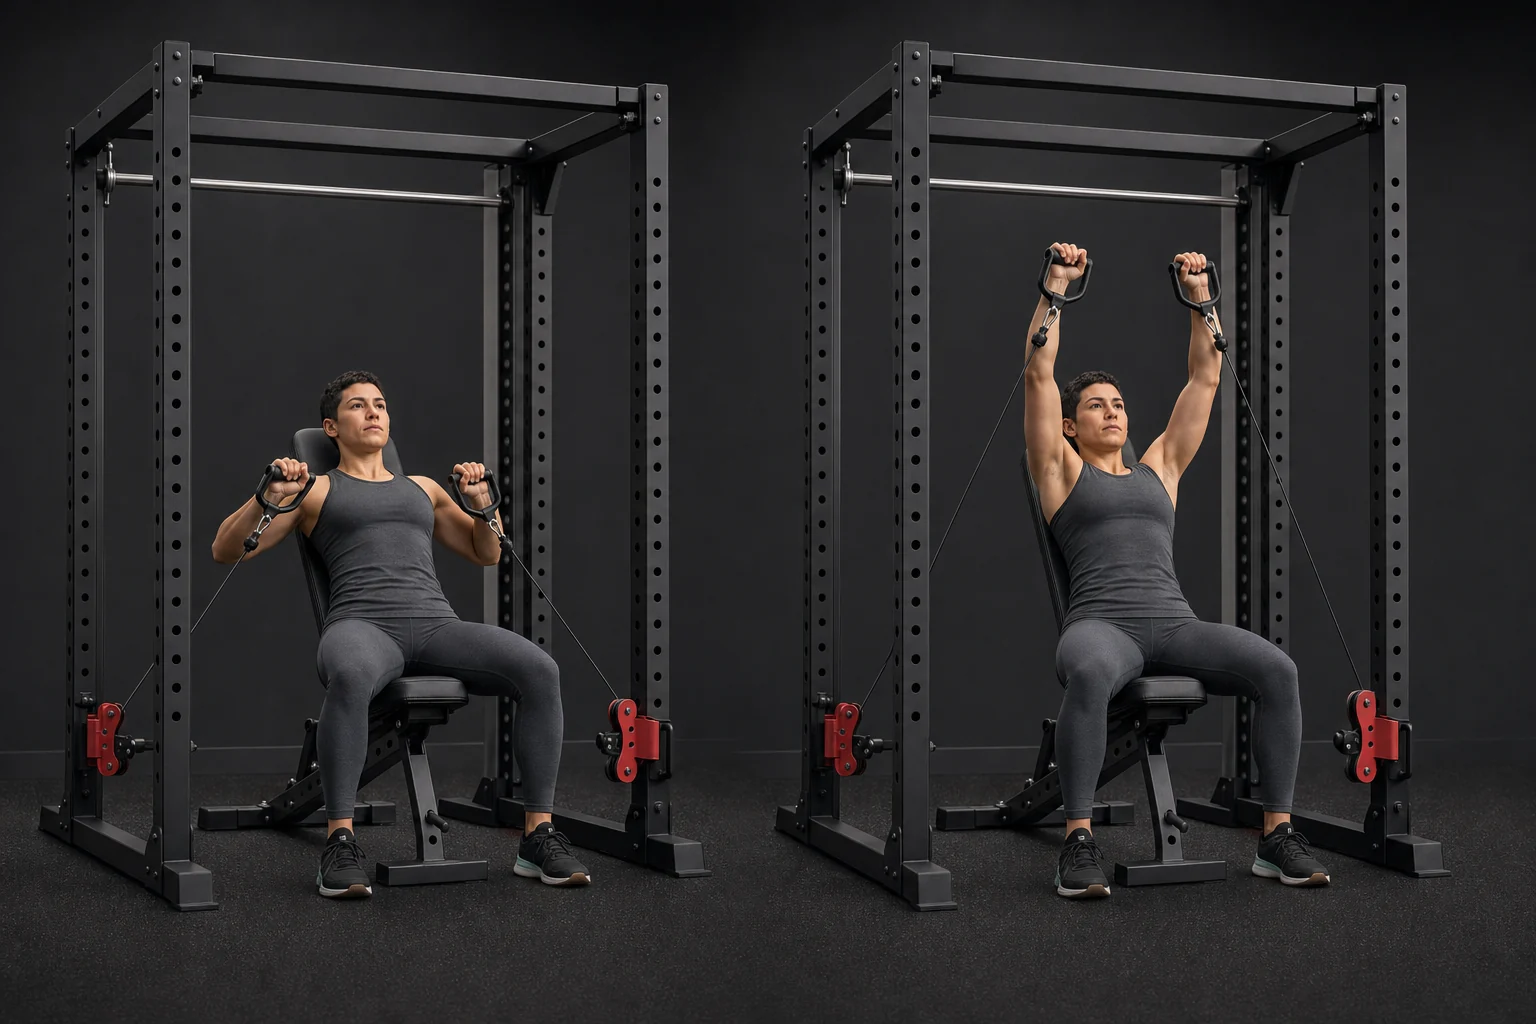
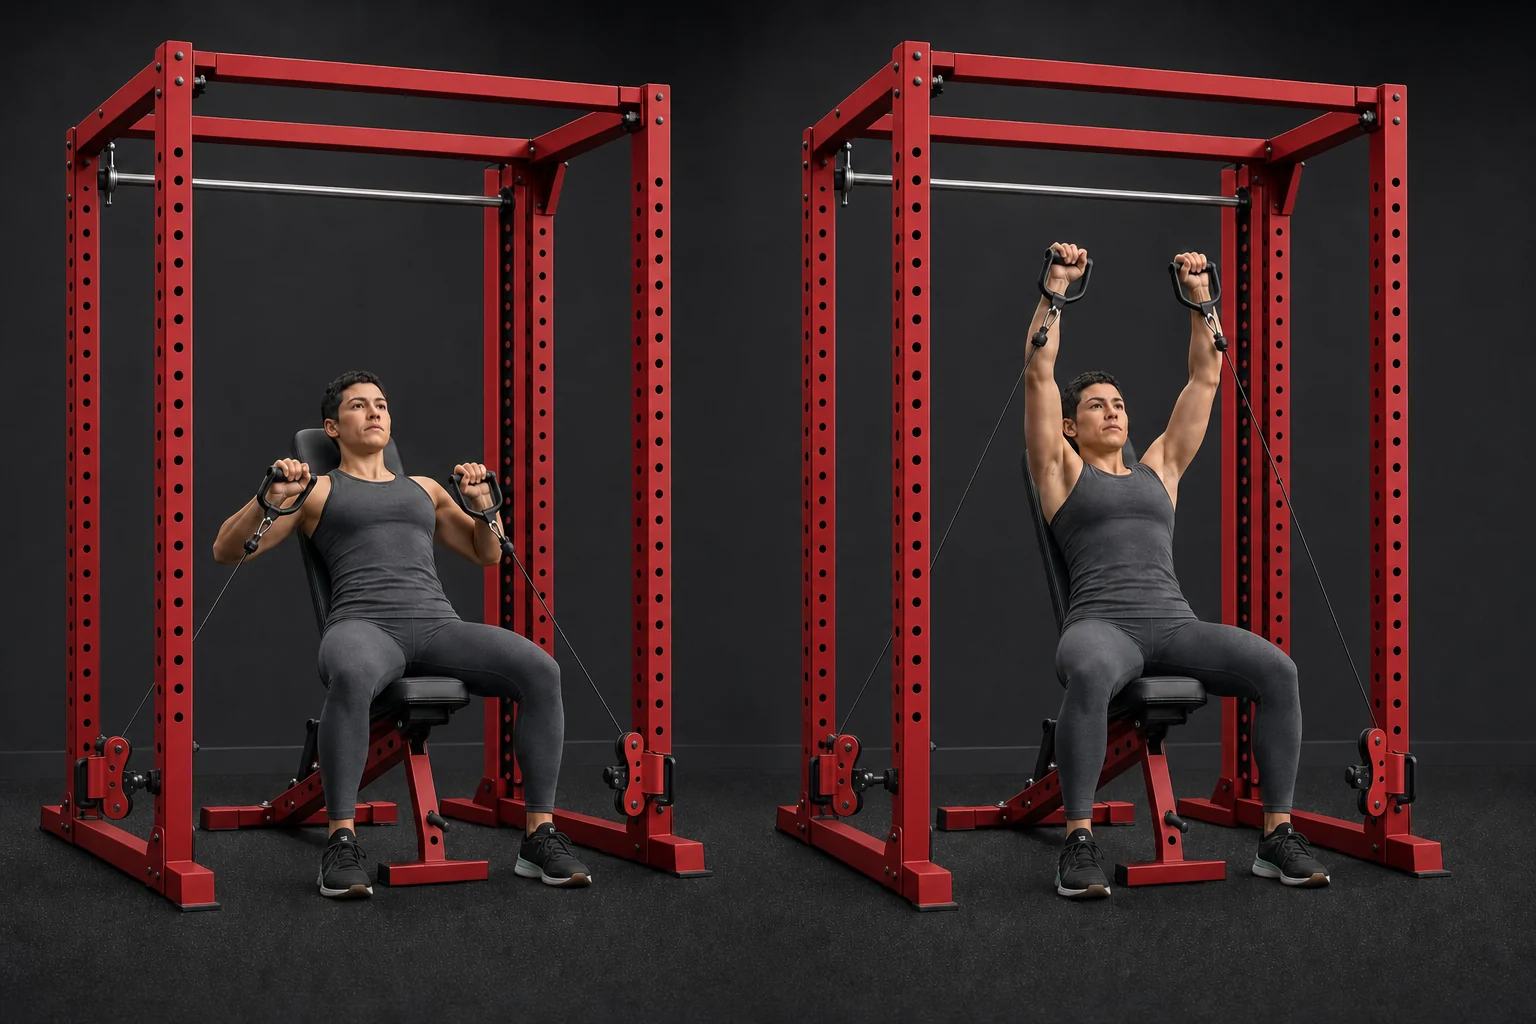
fix: correct incline press equipment artwork

diff --git a/exercise-library.js b/exercise-library.js
@@ -56,10 +56,10 @@
     "Incline Cable Press": road12Illustration({
       sourceExercise: "Incline cable press in a cage-style Smith machine",
       media: "incline-cable-press-cage.webp",
-      mediaAlt: "Start and finish positions for an incline cable press on a centered bench, with cables running from low pulleys on both front posts of a cage-style Smith machine",
+      mediaAlt: "Start and finish positions for an incline cable press inside a red cage-style Smith machine, with cables running from low pulleys on both front posts",
       primaryMuscles: ["Upper chest"],
       secondaryMuscles: ["Front shoulders", "Triceps"],
-      equipment: ["Cage-style Smith machine", "Two low front-post pulleys", "Two D-handles", "Low-incline bench"],
+      equipment: ["Red cage-style Smith machine", "Two low front-post pulleys", "Two D-handles", "Low-incline bench"],
       commonMistakes: ["Setting the pulleys too high", "Shrugging the shoulders", "Overarching the lower back"]
     }),
     "Hip Hinge": road12Illustration({

diff --git a/scripts/test-exercise-imagery.js b/scripts/test-exercise-imagery.js
@@ -35,7 +35,7 @@ assert.strictEqual(inclineCablePress.sourceType, "app-original");
 assert(
   inclineCablePress.mediaAlt.includes("low pulleys") &&
     inclineCablePress.mediaAlt.includes("both front posts") &&
-    inclineCablePress.mediaAlt.includes("cage-style Smith machine"),
+    inclineCablePress.mediaAlt.includes("red cage-style Smith machine"),
   "the incline cable press needs equipment-specific alternative text",
 );
 assert(

diff --git a/scripts/test-offline-pwa.js b/scripts/test-offline-pwa.js
@@ -121,7 +121,7 @@ async function dispatchFetch(url) {
 
 (async () => {
   const cacheName = context.self.ROAD12_META.serviceWorkerCache;
-  assert.strictEqual(cacheName, "road12-v13-2-11-shell");
+  assert.strictEqual(cacheName, "road12-v13-2-12-shell");
 
   await dispatchExtendable("install");
   assert.strictEqual(skipWaitingCalled, true, "new worker must activate promptly");

diff --git a/app-meta.js b/app-meta.js
@@ -1,9 +1,9 @@
 (function (root) {
   root.ROAD12_META = Object.freeze({
     version: "13.2.0",
-    build: "2026.07.30.12",
+    build: "2026.07.30.13",
     lastUpdated: "July 30, 2026",
     gitCommit: null,
-    serviceWorkerCache: "road12-v13-2-11-shell"
+    serviceWorkerCache: "road12-v13-2-12-shell"
   });
 })(typeof self !== "undefined" ? self : window);

diff --git a/sw.js b/sw.js
@@ -1,5 +1,5 @@
 /* Keep this query aligned with app-meta.js so Safari cannot reuse stale imported metadata. */
-importScripts("./app-meta.js?build=2026.07.30.12");
+importScripts("./app-meta.js?build=2026.07.30.13");
 
 const CACHE=self.ROAD12_META.serviceWorkerCache;
 const CACHE_PREFIX="road12-";

diff --git a/docs/CHANGELOG.md b/docs/CHANGELOG.md
@@ -40,6 +40,7 @@ The format follows [Keep a Changelog](https://keepachangelog.com/en/1.1.0/), and
 - Advanced the maintenance build to `2026.07.30.10` and rotated the offline shell cache for the treadmill visual guide.
 - Advanced the maintenance build to `2026.07.30.11` and rotated the offline shell cache for the Hip Hinge visual guide.
 - Advanced the maintenance build to `2026.07.30.12` and rotated the offline shell cache for the Incline Cable Press visual guide.
+- Advanced the maintenance build to `2026.07.30.13` and rotated the offline shell cache for the corrected Incline Cable Press equipment artwork.
 - Replaced developer-facing missing-media copy with concise coached-instruction guidance.
 
 ### Fixed
@@ -47,6 +48,7 @@ The format follows [Keep a Changelog](https://keepachangelog.com/en/1.1.0/), and
 - Added a consistent visible keyboard focus indicator across interactive controls.
 - Fixed installed PWAs remaining on an older shell after a newer build was deployed.
 - Fixed UTC date conversion causing yesterday's missed workout to be absent from Calendar.
+- Corrected the Incline Cable Press illustration so both low pulleys are on the front posts and the Smith cage matches the red equipment.
 
 ### Removed
 

diff --git a/docs/PROJECT_CONTEXT.md b/docs/PROJECT_CONTEXT.md
@@ -6,9 +6,9 @@ Read this file at the beginning of every Codex or engineering session. It is the
 
 - Product: Road to 12%
 - Version: 13.2.0
-- Build: 2026.07.30.12
+- Build: 2026.07.30.13
 - Last updated: July 30, 2026
-- Service Worker cache: `road12-v13-2-11-shell`
+- Service Worker cache: `road12-v13-2-12-shell`
 - Runtime: static, client-only, offline-first PWA
 - Primary storage key: `road12v5`
 

diff --git a/docs/CODEX_TASKS.md b/docs/CODEX_TASKS.md
@@ -58,6 +58,7 @@ Copy this block for new work:
 
 ## Completed this sprint
 
+- [x] Correct the Incline Cable Press pulley placement and red Smith cage finish.
 - [x] Add an offline cage-style Smith machine Incline Cable Press illustration.
 - [x] Add an offline two-position Hip Hinge posture illustration.
 - [x] Add an offline treadmill posture illustration and polish the reviewed-media fallback.
